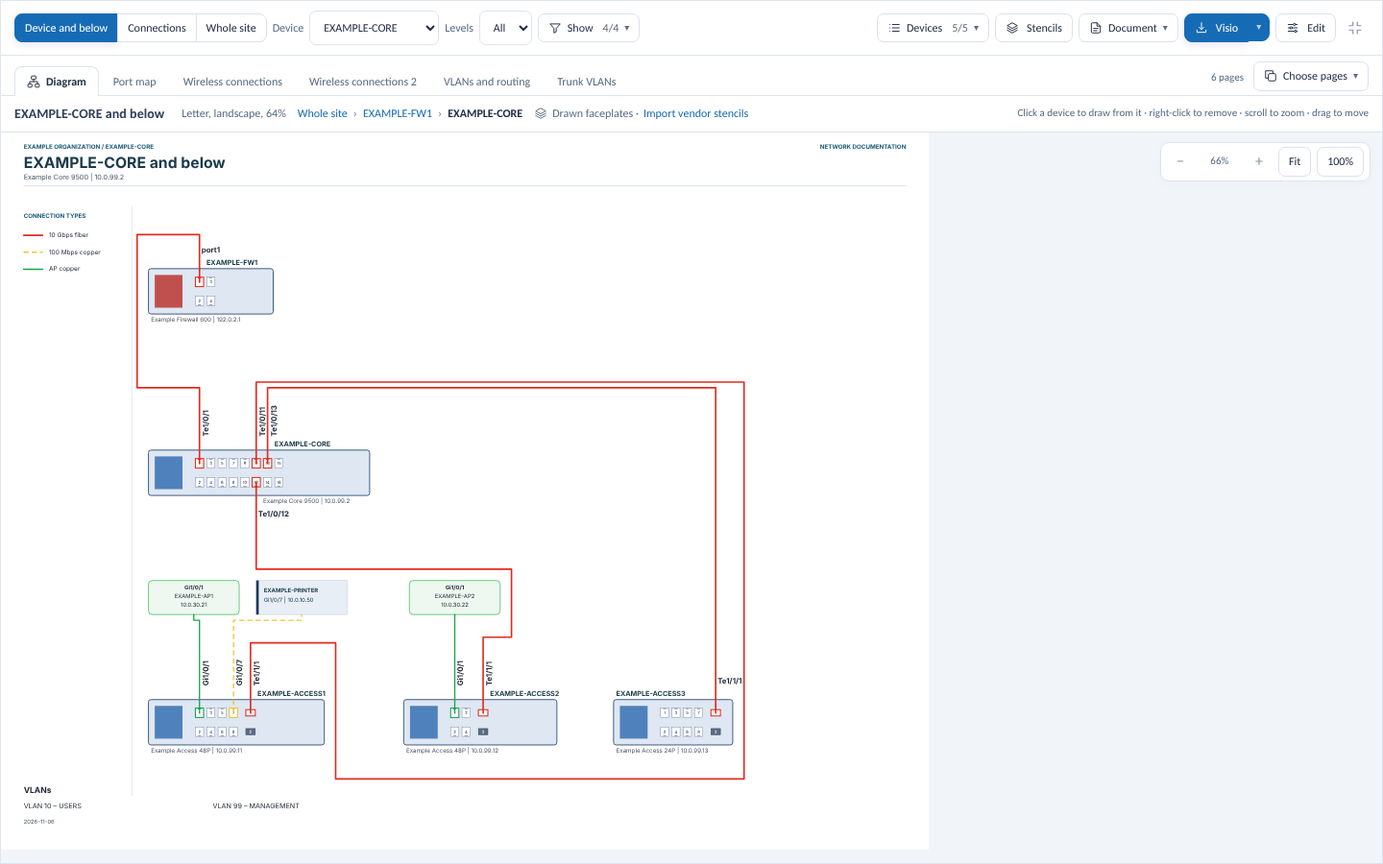
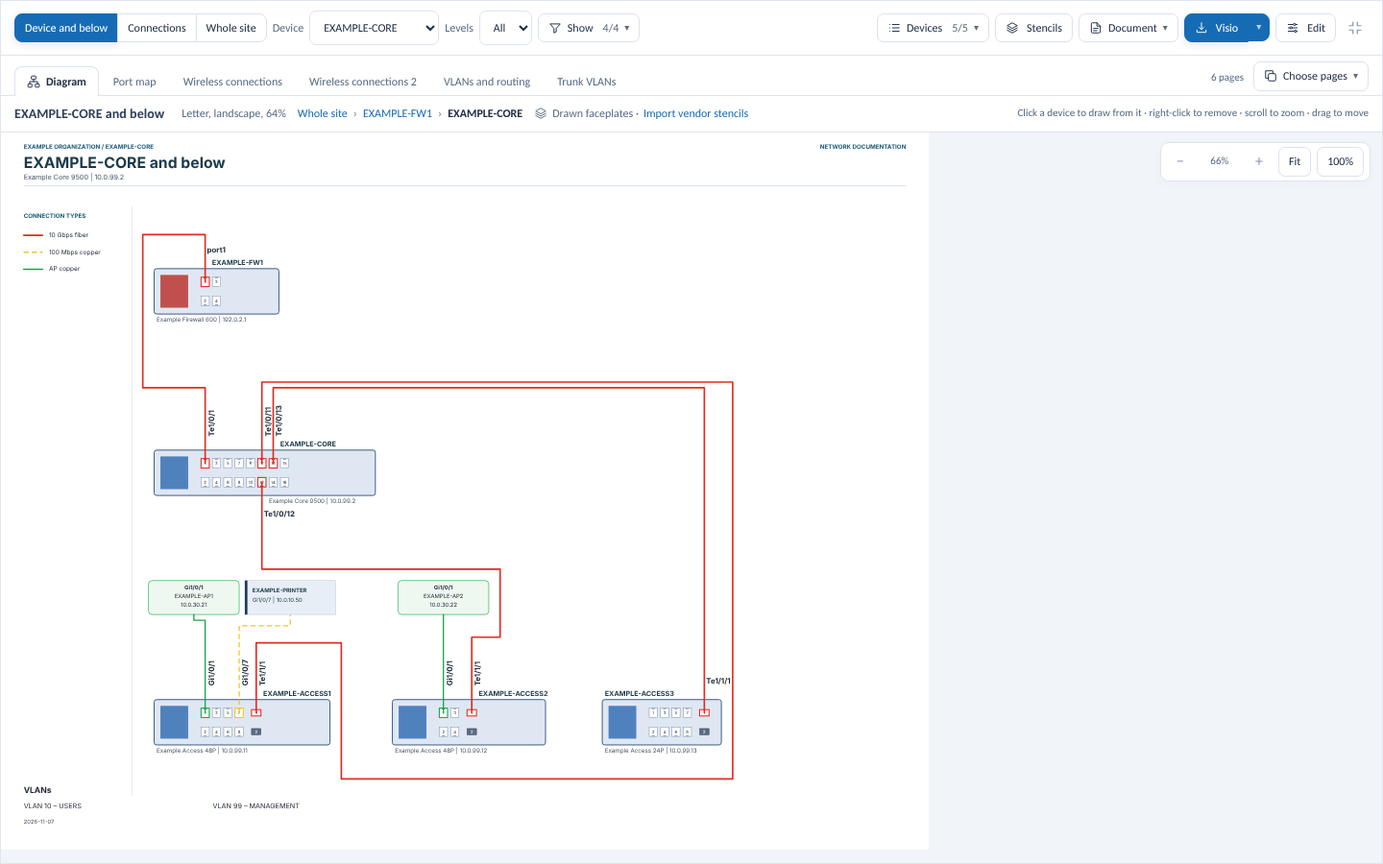
Release 5.49.0: access points stay within their device's width
Endpoint rows shrink their gap to fit within the switch, firewall or stack
they connect to and are centered when they cannot fit; wireless-page access
point boxes are only as wide as their names.

Claude-Session: https://claude.ai/code/session_01AkZzWEYiyfNXNUuxhn3mpE

diff --git a/webview/index.html b/webview/index.html
@@ -963,7 +963,7 @@ body{font-size:14px}.brand-mark{background:linear-gradient(145deg,#287dc6,#15578
       <div id="page-heading"></div>
       <div id="workspace-tabs"></div><div id="workspace-notice"></div>
       <div id="content"></div>
-      <footer class="page-footer"><span id="version-label">Config Inspector 5.48.0</span></footer>
+      <footer class="page-footer"><span id="version-label">Config Inspector 5.49.0</span></footer>
     </main>
   </div>
   <input type="file" id="import-file" multiple accept=".exp,.txt,.json,.conf,.cfg,.xml,.tar,.set,.log,.backup,.rsc,.xlsx,.csv,.vssx,.vstx,.vsdx,.vss" hidden>
@@ -6442,7 +6442,7 @@ function pJ(L,pan){const d=E(),I={},R={},T={};
   // points show their whole name); the image takes 52 px when a stencil draws the endpoint.
   var longest=0;devices.forEach(function(dev){(dev.eps||[]).forEach(function(a){if(!a.node.group)longest=Math.max(longest,String(a.node.name||'').length);});});
   // Even grid steps, so an endpoint's center (where its link lands) is on the routing grid.
-  if(longest){EP_W=Math.max(126,Math.ceil((60+longest*9*0.56)/18)*18);EP_PITCH=EP_W+27;}
+  if(longest){EP_W=view.tallAps?Math.max(90,Math.ceil((14+longest*9*0.56)/18)*18):Math.max(126,Math.ceil((60+longest*9*0.56)/18)*18);EP_PITCH=EP_W+27;}
   // Connections: one per physical link on faceplates, one per device pair on boxes.
   var conns=[],seenLinks=new Set();
   (input.links||[]).forEach(function(l){var A=devices.get(l.a),B=devices.get(l.b);if(!A||!B||A===B)return;var key=[l.a+'|'+short(l.aPort),l.b+'|'+short(l.bPort)].sort().join('~');if(seenLinks.has(key))return;seenLinks.add(key);
@@ -6475,12 +6475,17 @@ function pJ(L,pan){const d=E(),I={},R={},T={};
   // bottom-row port, each near its port.
   devices.forEach(function(d){d.top=[];d.bot=[];});
   conns.forEach(function(c){if(c.ep==null)return;var t=c.ta.shared||c.ta,e={conn:c,a:c.A.eps[c.ep],dx:t.slot.dx,side:c.ta.side};(e.side==='top'?c.A.top:c.A.bot).push(e);});
-  // Compact (owner request): a row of endpoints stays within the device's width where it fits,
-  // each as near its port as its neighbors allow, instead of running off to one side.
-  devices.forEach(function(d){[d.top,d.bot].forEach(function(list){var x=null;list.sort(function(p,q){return p.dx-q.dx;}).forEach(function(e){var ideal=snap(e.dx-EP_W/2);x=x==null?ideal:Math.max(ideal,x+EP_PITCH);e.rx=x;});
-    var body=d.w,n=list.length,span=n?(n-1)*EP_PITCH+EP_W:0,lo=-2*G,hi=Math.max(0,snap(body-EP_W))+2*G;if(n&&span<=body){for(var i=n-1;i>=0;i--){var cap=i===n-1?hi:list[i+1].rx-EP_PITCH;if(list[i].rx>cap)list[i].rx=cap;}for(var j=0;j<n;j++){var floor=j?list[j-1].rx+EP_PITCH:lo;if(list[j].rx<floor)list[j].rx=floor;}}
-    // A row wider than the body still starts where it stays within the device's width if it can.
-    else if(n){var start=Math.max(0,Math.min(list[0].rx,snap(d.w-span)));list.forEach(function(e,k){e.rx=start+k*EP_PITCH;});}});
+  // Compact (owner request): access points and other endpoints stay within the left and right edges
+  // of their switch, firewall or stack whenever they fit, each as near its port as its neighbors
+  // allow; the gap between them shrinks (down to one grid step) before the row may run past the
+  // device, and a row that still cannot fit is centered on the device.
+  devices.forEach(function(d){[d.top,d.bot].forEach(function(list){var n=list.length;if(!n)return;list.sort(function(p,q){return p.dx-q.dx;});
+    var body=d.w,lo=0,hi=Math.max(0,snap(body-EP_W)),pitch=EP_PITCH;
+    if(n>1&&(n-1)*pitch+EP_W>body)pitch=Math.max(EP_W+G,Math.floor((body-EP_W)/(n-1)/G)*G);
+    var x=null;list.forEach(function(e){var ideal=snap(e.dx-EP_W/2);x=x==null?ideal:Math.max(ideal,x+pitch);e.rx=x;});
+    var span=(n-1)*pitch+EP_W;
+    if(span<=body){for(var i=n-1;i>=0;i--){var cap=i===n-1?hi:list[i+1].rx-pitch;if(list[i].rx>cap)list[i].rx=cap;}for(var j=0;j<n;j++){var floor=j?list[j-1].rx+pitch:lo;if(list[j].rx<floor)list[j].rx=floor;}}
+    else{var start=snap((body-span)/2);list.forEach(function(e,k){e.rx=start+k*pitch;});}});
    var left=Math.min.apply(null,[0].concat(d.top.concat(d.bot).map(function(e){return e.rx;}))),right=Math.max.apply(null,[d.w+(d.others?G*2+EP_W:0)].concat(d.top.concat(d.bot).map(function(e){return e.rx+EP_W;})));d.offset=-left;d.cellW=right-left;});
   // Horizontal placement: cells left to right, rows centered.
   // Rows start on one vertical line: the first device of every row has the same left edge
@@ -6614,7 +6619,7 @@ function pJ(L,pan){const d=E(),I={},R={},T={};
   page.rect(MARGIN,84,page.w-2*MARGIN,1,{fill:'#c9d3df',stroke:'none'});
   page.lines=lines;page.devices=Array.from(devices.values()).map(function(d){return {key:d.key,name:d.node.name,x:d.x,y:d.y,w:d.w,h:d.h};});
   // Endpoints with the x of the port they use, for the editor's alignment tools.
-  page.eps=[];devices.forEach(function(d){d.top.concat(d.bot).forEach(function(e){var c=e.conn,port=c&&c.ga?c.ga.px:null;page.eps.push({key:epKey(d,e.a),x:d.x+e.rx,y:epY(d,e),w:EP_W,h:EP_H,portX:port,ox:e.ox||0,oy:e.oy||0});});});
+  page.eps=[];devices.forEach(function(d){d.top.concat(d.bot).forEach(function(e){var c=e.conn,port=c&&c.ga?c.ga.px:null;page.eps.push({key:epKey(d,e.a),dev:d.key,x:d.x+e.rx,y:epY(d,e),w:EP_W,h:EP_H,portX:port,ox:e.ox||0,oy:e.oy||0});});});
   return page;
  }
  // A page for a scope; the title says what it shows.
@@ -7421,7 +7426,7 @@ function pJ(L,pan){const d=E(),I={},R={},T={};
     return {compareText:compareText,compareMode:['records','text','fields'].includes(data.compareMode)?data.compareMode:'records',models:models.slice(0,data.count),model:data.selected<0?null:models[data.selected],comparison:data.comparison<0?null:models[data.comparison],view:typeof data.view==='string'?data.view:'overview',scope:typeof data.scope==='string'?data.scope:'',categoryTabs:data.categoryTabs&&typeof data.categoryTabs==='object'&&!Array.isArray(data.categoryTabs)?data.categoryTabs:{},showUnassigned:!!data.showUnassigned,showEmpty:!!data.showEmpty};
   }
   function create(options){
-    options=options||{};var bridge=options.bridge||root.chrome&&root.chrome.webview,native=!!(bridge&&typeof bridge.postMessage==='function'&&typeof bridge.addEventListener==='function'),state={current:'5.48.0',state:'idle',message:'',automatic:true,busy:false,ready:false,available:false},handlers={},restoring=false,installing=false;
+    options=options||{};var bridge=options.bridge||root.chrome&&root.chrome.webview,native=!!(bridge&&typeof bridge.postMessage==='function'&&typeof bridge.addEventListener==='function'),state={current:'5.49.0',state:'idle',message:'',automatic:true,busy:false,ready:false,available:false},handlers={},restoring=false,installing=false;
     var commands=['update-ui-ready','update-status','update-check','update-download','update-later','update-auto-on','update-auto-off','update-restored','update-restore-failed'];
     function request(command){if(!native)throw new Error('Built-in updates are available in the Windows desktop edition.');if(!commands.includes(command))throw new Error('Unknown update action.');bridge.postMessage(command);}
     if(native)bridge.addEventListener('message',async function(event){
@@ -10191,7 +10196,7 @@ function pJ(L,pan){const d=E(),I={},R={},T={};
     return '<div class="site-page">'+tabs+summary+panels[current]+'</div>';
   }
   // Kept current by scripts/version.py, which replaces the release string on each bump.
-  var APP_VERSION='5.48.0';
+  var APP_VERSION='5.49.0';
   // Client report: one section per open configuration. Port states use the same
   // classification as Interfaces at a glance, evaluated with each model active.
   function withModel(m,fn){var saved={model:state.model,usage:state.interfaceUsageCache,recordMap:state.recordMap};state.model=m;state.interfaceUsageCache=null;state.recordMap=new Map(m.records.map(function(r){return [r.id,r];}));try{return fn();}finally{state.model=saved.model;state.interfaceUsageCache=saved.usage;state.recordMap=saved.recordMap;}}
@@ -10834,7 +10839,7 @@ function pJ(L,pan){const d=E(),I={},R={},T={};
     }
   }
   function showHelp(){
-    openModal(modalHeader('About Config Inspector','Firewall and switch configuration explorer / version 5.48.0')+
+    openModal(modalHeader('About Config Inspector','Firewall and switch configuration explorer / version 5.49.0')+
       '<div class="modal-body"><div class="help-section"><h3>Open and explore</h3><p>Import SonicWall EXP, FortiGate FortiOS text, Palo Alto configuration XML, Sophos Firewall XML or export TAR, Aruba AOS or AOS-CX text, Cisco IOS or NX-OS text, Juniper Junos text or XML, Meraki API JSON, or a JSON snapshot exported by this application. The device type is detected automatically. You can also drop a file anywhere in the window. Select an interface or record for a plain-language explanation and key facts. Related objects show their IP addresses or service ports. Advanced details contains all original fields. Use Copy summary for readable facts and Back to return from a related item.</p></div>'+
       '<div class="help-section"><h3>Configuration sections</h3><p>Choose a root section in the sidebar, then select one of its indented subsections. Each subsection opens its own page. Routes, objects, members and other primary definitions appear before related settings. Security pages are grouped by function, including web, applications, files, intrusion prevention and SSL/TLS inspection. Certificate objects remain under Certificates. Empty subsections are hidden by default. Use View options to show empty sections, or Configuration sections and All original fields to inspect untranslated settings. Configuration context, search and table filters apply to the selected view.</p></div>'+
       '<div class="help-section"><h3>Choose access rule zones</h3><p>In Access Rules, choose From zone and To zone independently. All zones leaves that side unrestricted. Swap reverses the direction. Clear zone filters removes the pair while keeping the table filters. Search, configured state, and IP version filters combine with the pair, and CSV includes all matching rules. A matrix cell selects its zone pair. Interface and zone details offer outgoing and incoming rules.</p></div>'+

diff --git a/webview/diagram.js b/webview/diagram.js
@@ -356,7 +356,7 @@
   // points show their whole name); the image takes 52 px when a stencil draws the endpoint.
   var longest=0;devices.forEach(function(dev){(dev.eps||[]).forEach(function(a){if(!a.node.group)longest=Math.max(longest,String(a.node.name||'').length);});});
   // Even grid steps, so an endpoint's center (where its link lands) is on the routing grid.
-  if(longest){EP_W=Math.max(126,Math.ceil((60+longest*9*0.56)/18)*18);EP_PITCH=EP_W+27;}
+  if(longest){EP_W=view.tallAps?Math.max(90,Math.ceil((14+longest*9*0.56)/18)*18):Math.max(126,Math.ceil((60+longest*9*0.56)/18)*18);EP_PITCH=EP_W+27;}
   // Connections: one per physical link on faceplates, one per device pair on boxes.
   var conns=[],seenLinks=new Set();
   (input.links||[]).forEach(function(l){var A=devices.get(l.a),B=devices.get(l.b);if(!A||!B||A===B)return;var key=[l.a+'|'+short(l.aPort),l.b+'|'+short(l.bPort)].sort().join('~');if(seenLinks.has(key))return;seenLinks.add(key);
@@ -389,12 +389,17 @@
   // bottom-row port, each near its port.
   devices.forEach(function(d){d.top=[];d.bot=[];});
   conns.forEach(function(c){if(c.ep==null)return;var t=c.ta.shared||c.ta,e={conn:c,a:c.A.eps[c.ep],dx:t.slot.dx,side:c.ta.side};(e.side==='top'?c.A.top:c.A.bot).push(e);});
-  // Compact (owner request): a row of endpoints stays within the device's width where it fits,
-  // each as near its port as its neighbors allow, instead of running off to one side.
-  devices.forEach(function(d){[d.top,d.bot].forEach(function(list){var x=null;list.sort(function(p,q){return p.dx-q.dx;}).forEach(function(e){var ideal=snap(e.dx-EP_W/2);x=x==null?ideal:Math.max(ideal,x+EP_PITCH);e.rx=x;});
-    var body=d.w,n=list.length,span=n?(n-1)*EP_PITCH+EP_W:0,lo=-2*G,hi=Math.max(0,snap(body-EP_W))+2*G;if(n&&span<=body){for(var i=n-1;i>=0;i--){var cap=i===n-1?hi:list[i+1].rx-EP_PITCH;if(list[i].rx>cap)list[i].rx=cap;}for(var j=0;j<n;j++){var floor=j?list[j-1].rx+EP_PITCH:lo;if(list[j].rx<floor)list[j].rx=floor;}}
-    // A row wider than the body still starts where it stays within the device's width if it can.
-    else if(n){var start=Math.max(0,Math.min(list[0].rx,snap(d.w-span)));list.forEach(function(e,k){e.rx=start+k*EP_PITCH;});}});
+  // Compact (owner request): access points and other endpoints stay within the left and right edges
+  // of their switch, firewall or stack whenever they fit, each as near its port as its neighbors
+  // allow; the gap between them shrinks (down to one grid step) before the row may run past the
+  // device, and a row that still cannot fit is centered on the device.
+  devices.forEach(function(d){[d.top,d.bot].forEach(function(list){var n=list.length;if(!n)return;list.sort(function(p,q){return p.dx-q.dx;});
+    var body=d.w,lo=0,hi=Math.max(0,snap(body-EP_W)),pitch=EP_PITCH;
+    if(n>1&&(n-1)*pitch+EP_W>body)pitch=Math.max(EP_W+G,Math.floor((body-EP_W)/(n-1)/G)*G);
+    var x=null;list.forEach(function(e){var ideal=snap(e.dx-EP_W/2);x=x==null?ideal:Math.max(ideal,x+pitch);e.rx=x;});
+    var span=(n-1)*pitch+EP_W;
+    if(span<=body){for(var i=n-1;i>=0;i--){var cap=i===n-1?hi:list[i+1].rx-pitch;if(list[i].rx>cap)list[i].rx=cap;}for(var j=0;j<n;j++){var floor=j?list[j-1].rx+pitch:lo;if(list[j].rx<floor)list[j].rx=floor;}}
+    else{var start=snap((body-span)/2);list.forEach(function(e,k){e.rx=start+k*pitch;});}});
    var left=Math.min.apply(null,[0].concat(d.top.concat(d.bot).map(function(e){return e.rx;}))),right=Math.max.apply(null,[d.w+(d.others?G*2+EP_W:0)].concat(d.top.concat(d.bot).map(function(e){return e.rx+EP_W;})));d.offset=-left;d.cellW=right-left;});
   // Horizontal placement: cells left to right, rows centered.
   // Rows start on one vertical line: the first device of every row has the same left edge
@@ -528,7 +533,7 @@
   page.rect(MARGIN,84,page.w-2*MARGIN,1,{fill:'#c9d3df',stroke:'none'});
   page.lines=lines;page.devices=Array.from(devices.values()).map(function(d){return {key:d.key,name:d.node.name,x:d.x,y:d.y,w:d.w,h:d.h};});
   // Endpoints with the x of the port they use, for the editor's alignment tools.
-  page.eps=[];devices.forEach(function(d){d.top.concat(d.bot).forEach(function(e){var c=e.conn,port=c&&c.ga?c.ga.px:null;page.eps.push({key:epKey(d,e.a),x:d.x+e.rx,y:epY(d,e),w:EP_W,h:EP_H,portX:port,ox:e.ox||0,oy:e.oy||0});});});
+  page.eps=[];devices.forEach(function(d){d.top.concat(d.bot).forEach(function(e){var c=e.conn,port=c&&c.ga?c.ga.px:null;page.eps.push({key:epKey(d,e.a),dev:d.key,x:d.x+e.rx,y:epY(d,e),w:EP_W,h:EP_H,portX:port,ox:e.ox||0,oy:e.oy||0});});});
   return page;
  }
  // A page for a scope; the title says what it shows.

diff --git a/webview/updates.js b/webview/updates.js
@@ -27,7 +27,7 @@
     return {compareText:compareText,compareMode:['records','text','fields'].includes(data.compareMode)?data.compareMode:'records',models:models.slice(0,data.count),model:data.selected<0?null:models[data.selected],comparison:data.comparison<0?null:models[data.comparison],view:typeof data.view==='string'?data.view:'overview',scope:typeof data.scope==='string'?data.scope:'',categoryTabs:data.categoryTabs&&typeof data.categoryTabs==='object'&&!Array.isArray(data.categoryTabs)?data.categoryTabs:{},showUnassigned:!!data.showUnassigned,showEmpty:!!data.showEmpty};
   }
   function create(options){
-    options=options||{};var bridge=options.bridge||root.chrome&&root.chrome.webview,native=!!(bridge&&typeof bridge.postMessage==='function'&&typeof bridge.addEventListener==='function'),state={current:'5.48.0',state:'idle',message:'',automatic:true,busy:false,ready:false,available:false},handlers={},restoring=false,installing=false;
+    options=options||{};var bridge=options.bridge||root.chrome&&root.chrome.webview,native=!!(bridge&&typeof bridge.postMessage==='function'&&typeof bridge.addEventListener==='function'),state={current:'5.49.0',state:'idle',message:'',automatic:true,busy:false,ready:false,available:false},handlers={},restoring=false,installing=false;
     var commands=['update-ui-ready','update-status','update-check','update-download','update-later','update-auto-on','update-auto-off','update-restored','update-restore-failed'];
     function request(command){if(!native)throw new Error('Built-in updates are available in the Windows desktop edition.');if(!commands.includes(command))throw new Error('Unknown update action.');bridge.postMessage(command);}
     if(native)bridge.addEventListener('message',async function(event){

diff --git a/webview/app.cpp b/webview/app.cpp
@@ -99,11 +99,11 @@ void ready(ICoreWebView2Controller* c){controller=c;c->AddRef();c->get_CoreWebVi
  auto message=new Callback<ICoreWebView2WebMessageReceivedEventHandler,ICoreWebView2*,ICoreWebView2WebMessageReceivedEventArgs*>([](auto,auto args){LPWSTR source=nullptr,command=nullptr;args->get_Source(&source);bool trusted=source&&wcscmp(source,appURL)==0;CoTaskMemFree(source);if(trusted&&SUCCEEDED(args->TryGetWebMessageAsString(&command))&&command){if(!wcsncmp(command,L"update-",7)){auto pending=new std::wstring(command);if(!PostMessageW(windowHandle,WM_APP+4,0,(LPARAM)pending))delete pending;CoTaskMemFree(command);return S_OK;}for(WPARAM code=1;code<=4;code++)if(wcscmp(command,storageCommands[code])==0){if(!PostMessageW(windowHandle,WM_APP+2,code,0)){appStorage.notice=L"The storage action could not be started.";storageReply(command,false);}break;}}CoTaskMemFree(command);return S_OK;});web->add_WebMessageReceived(message,&token);message->Release();
  web->Navigate(appURL);
 }
-int WINAPI wWinMain(HINSTANCE instance,HINSTANCE,PWSTR,int){int argc=0;LPWSTR* argv=CommandLineToArgvW(GetCommandLineW(),&argc);try{if(argc>1&&wcscmp(argv[1],L"--apply-update")==0){ci_update::require(argc==4,"Invalid update helper request.");int result=ci_update::apply(ci_update::full(argv[2]),ci_update::utf8(argv[3]));LocalFree(argv);return result;}if(argc>1&&(wcscmp(argv[1],L"--update-resume")==0||wcscmp(argv[1],L"--update-rollback")==0)){ci_update::require(argc==4,"Invalid update restart request.");updateRollback=wcscmp(argv[1],L"--update-rollback")==0;auto plan=ci_update::readPlan(ci_update::full(argv[2]),ci_update::utf8(argv[3]));ci_update::require(ci_update::same(ci_update::exePath(),plan.target)&&ci_update::hashFile(plan.target)==(updateRollback?plan.oldHash:plan.newHash),"The update restart target failed verification.");updateResume=std::make_unique<ci_update::Plan>(plan);}}catch(const std::exception& e){LocalFree(argv);MessageBoxW(nullptr,ci_update::wide(e.what()).c_str(),L"Config Inspector update",MB_OK|MB_ICONERROR);return 1;}LocalFree(argv);SetProcessDpiAwarenessContext(DPI_AWARENESS_CONTEXT_PER_MONITOR_AWARE_V2);CoInitializeEx(nullptr,COINIT_APARTMENTTHREADED);if(!appStorage.initialize()){MessageBoxW(nullptr,L"Unable to create an app data folder outside the executable folder.",L"Config Inspector",MB_OK|MB_ICONERROR);return 1;}dataDir=appStorage.current;try{updater=std::make_unique<ci_update::Updater>(dataDir,postUpdate);}catch(const std::exception& e){updateUnavailable=ci_update::wide(e.what());}std::wstring hostDir=dataDir+L"\\Host-5.48.0";CreateDirectoryW(hostDir.c_str(),nullptr);
+int WINAPI wWinMain(HINSTANCE instance,HINSTANCE,PWSTR,int){int argc=0;LPWSTR* argv=CommandLineToArgvW(GetCommandLineW(),&argc);try{if(argc>1&&wcscmp(argv[1],L"--apply-update")==0){ci_update::require(argc==4,"Invalid update helper request.");int result=ci_update::apply(ci_update::full(argv[2]),ci_update::utf8(argv[3]));LocalFree(argv);return result;}if(argc>1&&(wcscmp(argv[1],L"--update-resume")==0||wcscmp(argv[1],L"--update-rollback")==0)){ci_update::require(argc==4,"Invalid update restart request.");updateRollback=wcscmp(argv[1],L"--update-rollback")==0;auto plan=ci_update::readPlan(ci_update::full(argv[2]),ci_update::utf8(argv[3]));ci_update::require(ci_update::same(ci_update::exePath(),plan.target)&&ci_update::hashFile(plan.target)==(updateRollback?plan.oldHash:plan.newHash),"The update restart target failed verification.");updateResume=std::make_unique<ci_update::Plan>(plan);}}catch(const std::exception& e){LocalFree(argv);MessageBoxW(nullptr,ci_update::wide(e.what()).c_str(),L"Config Inspector update",MB_OK|MB_ICONERROR);return 1;}LocalFree(argv);SetProcessDpiAwarenessContext(DPI_AWARENESS_CONTEXT_PER_MONITOR_AWARE_V2);CoInitializeEx(nullptr,COINIT_APARTMENTTHREADED);if(!appStorage.initialize()){MessageBoxW(nullptr,L"Unable to create an app data folder outside the executable folder.",L"Config Inspector",MB_OK|MB_ICONERROR);return 1;}dataDir=appStorage.current;try{updater=std::make_unique<ci_update::Updater>(dataDir,postUpdate);}catch(const std::exception& e){updateUnavailable=ci_update::wide(e.what());}std::wstring hostDir=dataDir+L"\\Host-5.49.0";CreateDirectoryW(hostDir.c_str(),nullptr);
  std::wstring dll=hostDir+L"\\WebView2Loader.dll";HRSRC resource=FindResourceW(instance,MAKEINTRESOURCEW(102),RT_RCDATA);DWORD size=SizeofResource(instance,resource);const void* bytes=LockResource(LoadResource(instance,resource));HANDLE file=CreateFileW(dll.c_str(),GENERIC_WRITE,FILE_SHARE_READ,nullptr,CREATE_ALWAYS,FILE_ATTRIBUTE_NORMAL,nullptr);if(file!=INVALID_HANDLE_VALUE){DWORD written=0;bool ok=WriteFile(file,bytes,size,&written,nullptr)&&written==size;CloseHandle(file);if(!ok)return 1;}
  HMODULE loader=LoadLibraryExW(dll.c_str(),nullptr,LOAD_LIBRARY_SEARCH_DLL_LOAD_DIR|LOAD_LIBRARY_SEARCH_SYSTEM32);if(!loader){MessageBoxW(nullptr,L"Unable to load the application host.",L"Config Inspector",MB_OK|MB_ICONERROR);return 1;}
  using CreateEnvironment=HRESULT(STDAPICALLTYPE*)(PCWSTR,PCWSTR,ICoreWebView2EnvironmentOptions*,ICoreWebView2CreateCoreWebView2EnvironmentCompletedHandler*);auto create=(CreateEnvironment)GetProcAddress(loader,"CreateCoreWebView2EnvironmentWithOptions");if(!create)return 1;
- WNDCLASSW wc={};wc.hInstance=instance;wc.lpszClassName=L"ConfigInspectorWebView";wc.lpfnWndProc=proc;wc.hIcon=LoadIconW(instance,MAKEINTRESOURCEW(1));wc.hCursor=LoadCursor(nullptr,IDC_ARROW);wc.hbrBackground=(HBRUSH)(COLOR_WINDOW+1);RegisterClassW(&wc);HMENU menu=CreateMenu(),fileMenu=CreatePopupMenu(),helpMenu=CreatePopupMenu(),viewMenu=CreatePopupMenu();AppendMenuW(fileMenu,MF_STRING,1,L"Open configuration file...");AppendMenuW(fileMenu,MF_STRING,10,L"Paste settings...");AppendMenuW(fileMenu,MF_STRING,2,L"Export...");AppendMenuW(fileMenu,MF_SEPARATOR,0,nullptr);AppendMenuW(fileMenu,MF_STRING,9,L"App settings...");AppendMenuW(fileMenu,MF_SEPARATOR,0,nullptr);AppendMenuW(fileMenu,MF_STRING,3,L"Exit");AppendMenuW(helpMenu,MF_STRING,4,L"Format support");AppendMenuW(helpMenu,MF_STRING,11,L"Check for updates...");AppendMenuW(menu,MF_POPUP,(UINT_PTR)fileMenu,L"File");AppendMenuW(viewMenu,MF_STRING,6,L"Zoom in");AppendMenuW(viewMenu,MF_STRING,7,L"Zoom out");AppendMenuW(viewMenu,MF_STRING,8,L"Reset zoom");AppendMenuW(viewMenu,MF_STRING,5,L"Full screen\tF11");AppendMenuW(menu,MF_POPUP,(UINT_PTR)viewMenu,L"View");AppendMenuW(menu,MF_POPUP,(UINT_PTR)helpMenu,L"Help");windowHandle=CreateWindowW(wc.lpszClassName,L"Config Inspector 5.48.0",WS_OVERLAPPEDWINDOW,CW_USEDEFAULT,CW_USEDEFAULT,1440,960,nullptr,menu,instance,nullptr);
+ WNDCLASSW wc={};wc.hInstance=instance;wc.lpszClassName=L"ConfigInspectorWebView";wc.lpfnWndProc=proc;wc.hIcon=LoadIconW(instance,MAKEINTRESOURCEW(1));wc.hCursor=LoadCursor(nullptr,IDC_ARROW);wc.hbrBackground=(HBRUSH)(COLOR_WINDOW+1);RegisterClassW(&wc);HMENU menu=CreateMenu(),fileMenu=CreatePopupMenu(),helpMenu=CreatePopupMenu(),viewMenu=CreatePopupMenu();AppendMenuW(fileMenu,MF_STRING,1,L"Open configuration file...");AppendMenuW(fileMenu,MF_STRING,10,L"Paste settings...");AppendMenuW(fileMenu,MF_STRING,2,L"Export...");AppendMenuW(fileMenu,MF_SEPARATOR,0,nullptr);AppendMenuW(fileMenu,MF_STRING,9,L"App settings...");AppendMenuW(fileMenu,MF_SEPARATOR,0,nullptr);AppendMenuW(fileMenu,MF_STRING,3,L"Exit");AppendMenuW(helpMenu,MF_STRING,4,L"Format support");AppendMenuW(helpMenu,MF_STRING,11,L"Check for updates...");AppendMenuW(menu,MF_POPUP,(UINT_PTR)fileMenu,L"File");AppendMenuW(viewMenu,MF_STRING,6,L"Zoom in");AppendMenuW(viewMenu,MF_STRING,7,L"Zoom out");AppendMenuW(viewMenu,MF_STRING,8,L"Reset zoom");AppendMenuW(viewMenu,MF_STRING,5,L"Full screen\tF11");AppendMenuW(menu,MF_POPUP,(UINT_PTR)viewMenu,L"View");AppendMenuW(menu,MF_POPUP,(UINT_PTR)helpMenu,L"Help");windowHandle=CreateWindowW(wc.lpszClassName,L"Config Inspector 5.49.0",WS_OVERLAPPEDWINDOW,CW_USEDEFAULT,CW_USEDEFAULT,1440,960,nullptr,menu,instance,nullptr);
  // Pick the matching small/large resource frames instead of scaling one default icon.
  SendMessageW(windowHandle,WM_SETICON,ICON_BIG,(LPARAM)LoadImageW(instance,MAKEINTRESOURCEW(1),IMAGE_ICON,GetSystemMetrics(SM_CXICON),GetSystemMetrics(SM_CYICON),LR_SHARED));
  SendMessageW(windowHandle,WM_SETICON,ICON_SMALL,(LPARAM)LoadImageW(instance,MAKEINTRESOURCEW(1),IMAGE_ICON,GetSystemMetrics(SM_CXSMICON),GetSystemMetrics(SM_CYSMICON),LR_SHARED));

diff --git a/webview/version.h b/webview/version.h
@@ -1,4 +1,4 @@
 #pragma once
-#define CI_VERSION "5.48.0"
-#define CI_VERSION_W L"5.48.0"
-#define CI_VERSION_RESOURCE 5,48,0,0
+#define CI_VERSION "5.49.0"
+#define CI_VERSION_W L"5.49.0"
+#define CI_VERSION_RESOURCE 5,49,0,0

diff --git a/README.md b/README.md
@@ -219,7 +219,7 @@ Values in these tables (MAC and IP addresses, ports, device names) can be copied
     - **Trunk VLANs**: native (N) and tagged (T) VLANs for each group of trunk, access point and uplink ports.
     - **Choose pages** (next to the tabs) turns each kind of page on or off and chooses which devices appear on the port map.
   - Faceplates use the verified front-panel layouts that **Interfaces at a glance** uses (Cisco Catalyst, Aruba CX and AOS-S, HPE, FortiGate, Juniper EX, SonicWall, Palo Alto and Sophos models), including a model you choose there: ports sit in their real groups and positions, with their real numbers (for example 49-52 at the left of an Aruba CX 6100), RJ45 jacks drawn taller than wide and SFP and QSFP cages as wider, darker cages. Other devices use a built-in catalog or their own interfaces, odd ports on top, in blocks of 12. Stack members are side by side. Linked ports are outlined in the link color and named in a band above or below the device.
-  - Links are named and colored by cable or fiber type and speed, as in a typical site drawing: "10 Gbps SR fiber" (red), "10 Gbps LR fiber" (blue), "10 Gbps SFP+ DAC" (black), "1 Gbps copper" and "Local handoff" (yellow), "AP copper" (green); dashed when slower than 1 Gbps. The media comes from the port's reported media (`show interfaces status`) or else its connector (SFP cage or RJ45). The connection types are listed in a column at the left; an entry shows it is editable when you point at it. Double-click it (or right-click a link while editing) to change that type's color and name, or right-click it to highlight its links or reset it, which recolors its links and its legend entry together, or give one link its own type ("This link only") with its own legend entry. Endpoint boxes show full names and sit over the body of their switch; the port map shows each faceplate without repeating its label. Provider handoffs and other devices are pale boxes with a dark accent bar, and grouped access points a green summary box. A link reaches a top-row port from above and a bottom-row port from below, goes around devices, never runs on top of another link, and crosses another link only when no route avoids it (it then hops over it). Links use right angles and as few bends as possible; an access point's link takes at most two. Access points and other endpoints sit above and below their switch, within its width where they fit, to keep the page compact. A port reported with several neighbors becomes a trunk with a junction dot.
+  - Links are named and colored by cable or fiber type and speed, as in a typical site drawing: "10 Gbps SR fiber" (red), "10 Gbps LR fiber" (blue), "10 Gbps SFP+ DAC" (black), "1 Gbps copper" and "Local handoff" (yellow), "AP copper" (green); dashed when slower than 1 Gbps. The media comes from the port's reported media (`show interfaces status`) or else its connector (SFP cage or RJ45). The connection types are listed in a column at the left; an entry shows it is editable when you point at it. Double-click it (or right-click a link while editing) to change that type's color and name, or right-click it to highlight its links or reset it, which recolors its links and its legend entry together, or give one link its own type ("This link only") with its own legend entry. Endpoint boxes show full names and sit over the body of their switch; the port map shows each faceplate without repeating its label. Provider handoffs and other devices are pale boxes with a dark accent bar, and grouped access points a green summary box. A link reaches a top-row port from above and a bottom-row port from below, goes around devices, never runs on top of another link, and crosses another link only when no route avoids it (it then hops over it). Links use right angles and as few bends as possible; an access point's link takes at most two. Access points and other endpoints sit above and below their switch, firewall or stack and stay within its left and right edges whenever they fit (the gap between them shrinks first; a row that cannot fit is centered on the device). A port reported with several neighbors becomes a trunk with a junction dot.
   - Access points and named devices sit above the switch when they use a top-row port and below it for a bottom-row port, with their port, name and address; others are counted.
   - **Stencils:** the app does not include vendor artwork, so devices are drawn as generic faceplates until you import your vendor Visio stencils (.vss or .vssx), or a Visio drawing that already uses them (.vsdx), with **Stencils** (or **Import stencils** on the notice) on the diagram page or with **Add files**. **Import a stencil folder** searches a folder and its subfolders. Older Visio stencils (.vss, Visio 2003 to 2010) are read directly, without Visio installed. Devices then use the front-view vendor shape that matches their part number or model (or the product number and description the stencil records, which can be newer than a shape's name), access points their face-on view; a shape for another generation of the series (an FG-120F for a FortiGate-120G) is not used automatically, because its ports differ. **Stencils** has two tabs: **Devices** and **Stencil files**, each with a search box. Choose a device's shape by picking a stencil file and then a shape in it, or search every file at once (model, part number, product or file name); suggestions come first. Tick several devices to give them one shape, the automatic choice or drawn faceplates. Port map pages use the same stencils. Artwork the app cannot draw in full (gradient or EMF+ only pictures) is not used automatically. Links land on the stencil's ports: for devices with a known front-panel layout, each group of ports is matched to the stencil's ports in order (including SFP cages marked at both edges); otherwise when its connection points fit the device's ports. Visio downloads contain the vendor shapes. Stencils stay in the app on this computer.
   - **Letter or A4 paper:** each diagram is arranged to fit a letter sheet and the area it shares with A4 (landscape or portrait, whichever needs less shrinking), so it prints whole on either, and the label next to its title shows the orientation and scale. Port numbers on links are large and bold, and lie flat beside their line where neighboring ports leave room, which keeps the drawing compact; the app tries several arrangements and keeps the one that prints largest. When a device-and-below diagram would shrink too far to read, the first page still shows every device below it (with the Show choices as set) and each branch continues on its own page ("<device> and below"). Visio, SVG and printable downloads are laid out on letter pages; a very large diagram is flagged when its text would be small (show fewer levels or devices, or use the site book).

diff --git a/AGENTS.md b/AGENTS.md
@@ -138,6 +138,8 @@ existing release or its assets. Preserve the polished README layout.
 - Links use right angles and as few bends as possible (owner request): keep endpoint widths a
   multiple of 18 (`EP_W`) so centers stay on the grid; `tests/diagram-tests.cjs` allows at most
   two bends on access point links.
+- Access points and other endpoints stay within their device's left and right edges when they fit
+  (owner request); shrink the row gap before letting a row run past, and center rows that cannot fit.
 - Label bands are per device (`d.bt`/`d.bb`, from `bandFor`); never use the `BAND` constant for
   plate geometry. A split diagram's first page must keep every device below the focus.
 - Neighbor port corrections (`correctLinkPort`) apply to the diagram and to `liveFor()` neighbors;

diff --git a/docs/DEVELOPMENT_HANDOFF.md b/docs/DEVELOPMENT_HANDOFF.md
@@ -1,5 +1,12 @@
 # Configuration Inspector development handoff
 
+## 5.49.0 — endpoints within their device
+
+- Endpoint rows (`d.top`/`d.bot` in render) use a per-row pitch: `EP_PITCH`, shrunk to fit
+  `d.w` (minimum `EP_W + G`); rows within the device are packed between 0 and `d.w - EP_W`,
+  rows that cannot fit are centered. `page.eps[].dev` names the owning device.
+- Tall access points (wireless pages) size `EP_W` from the name alone (`14 + text`, min 90).
+
 ## 5.48.0 — NetworkDiagramStudio's error 271 repair
 
 - 5.47.0 copied an old NDS writer. NDS's current writer (`src/web/diagram/visio.mjs`, its

diff --git a/docs/releases/5.49.0.md b/docs/releases/5.49.0.md
@@ -1,0 +1,6 @@
+# Config Inspector 5.49.0
+
+## Layout
+
+- Access points and other connected devices stay within the left and right edges of the switch, firewall or stack they connect to, whenever they fit. The gap between them shrinks (down to one grid step) before a row may run past the device; a row that still cannot fit is centered on the device instead of running off one side.
+- On wireless connections pages, each access point box is only as wide as its name (the icon sits above it), so a full row of access points fits within a 48-port switch.
